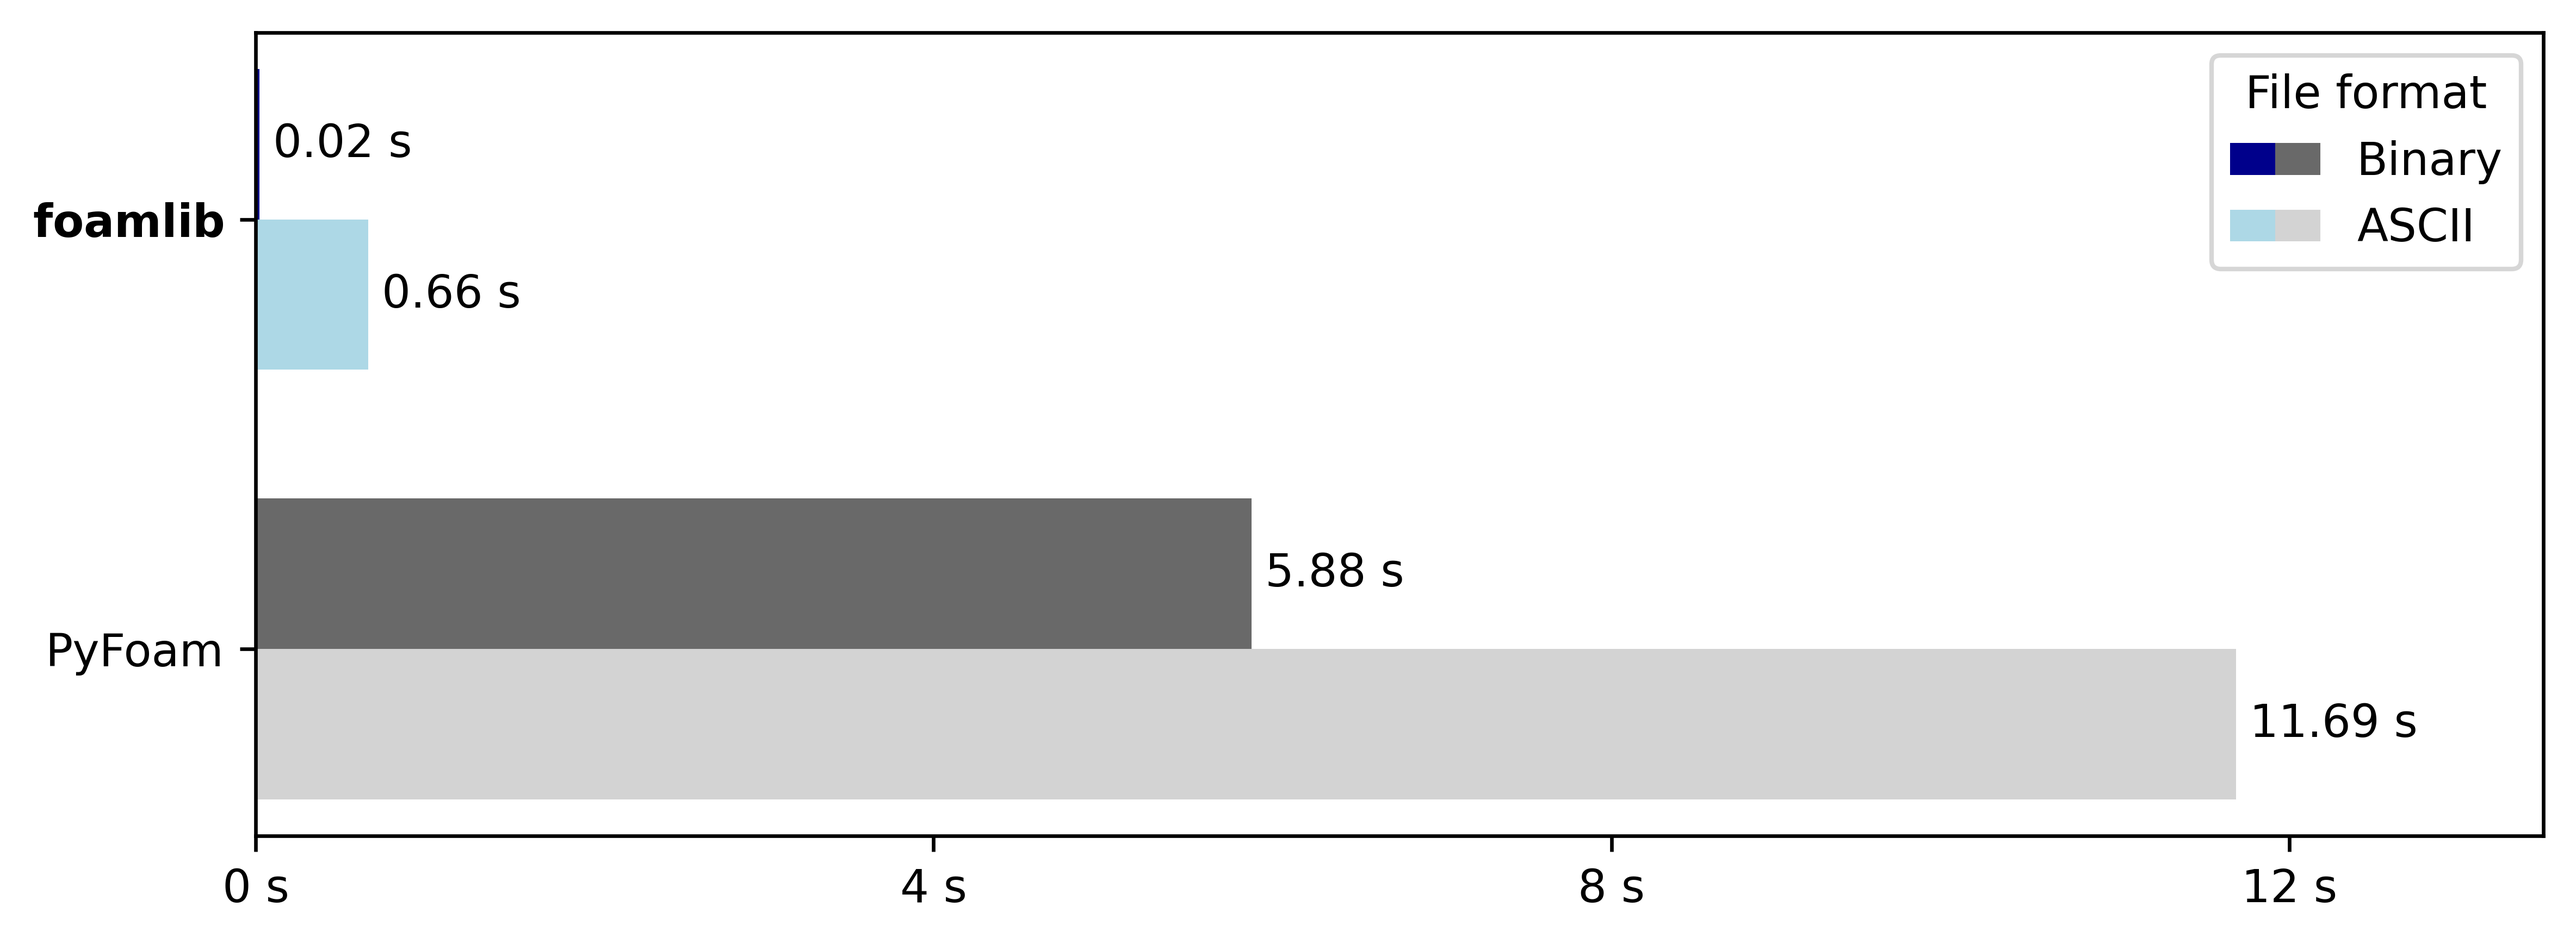
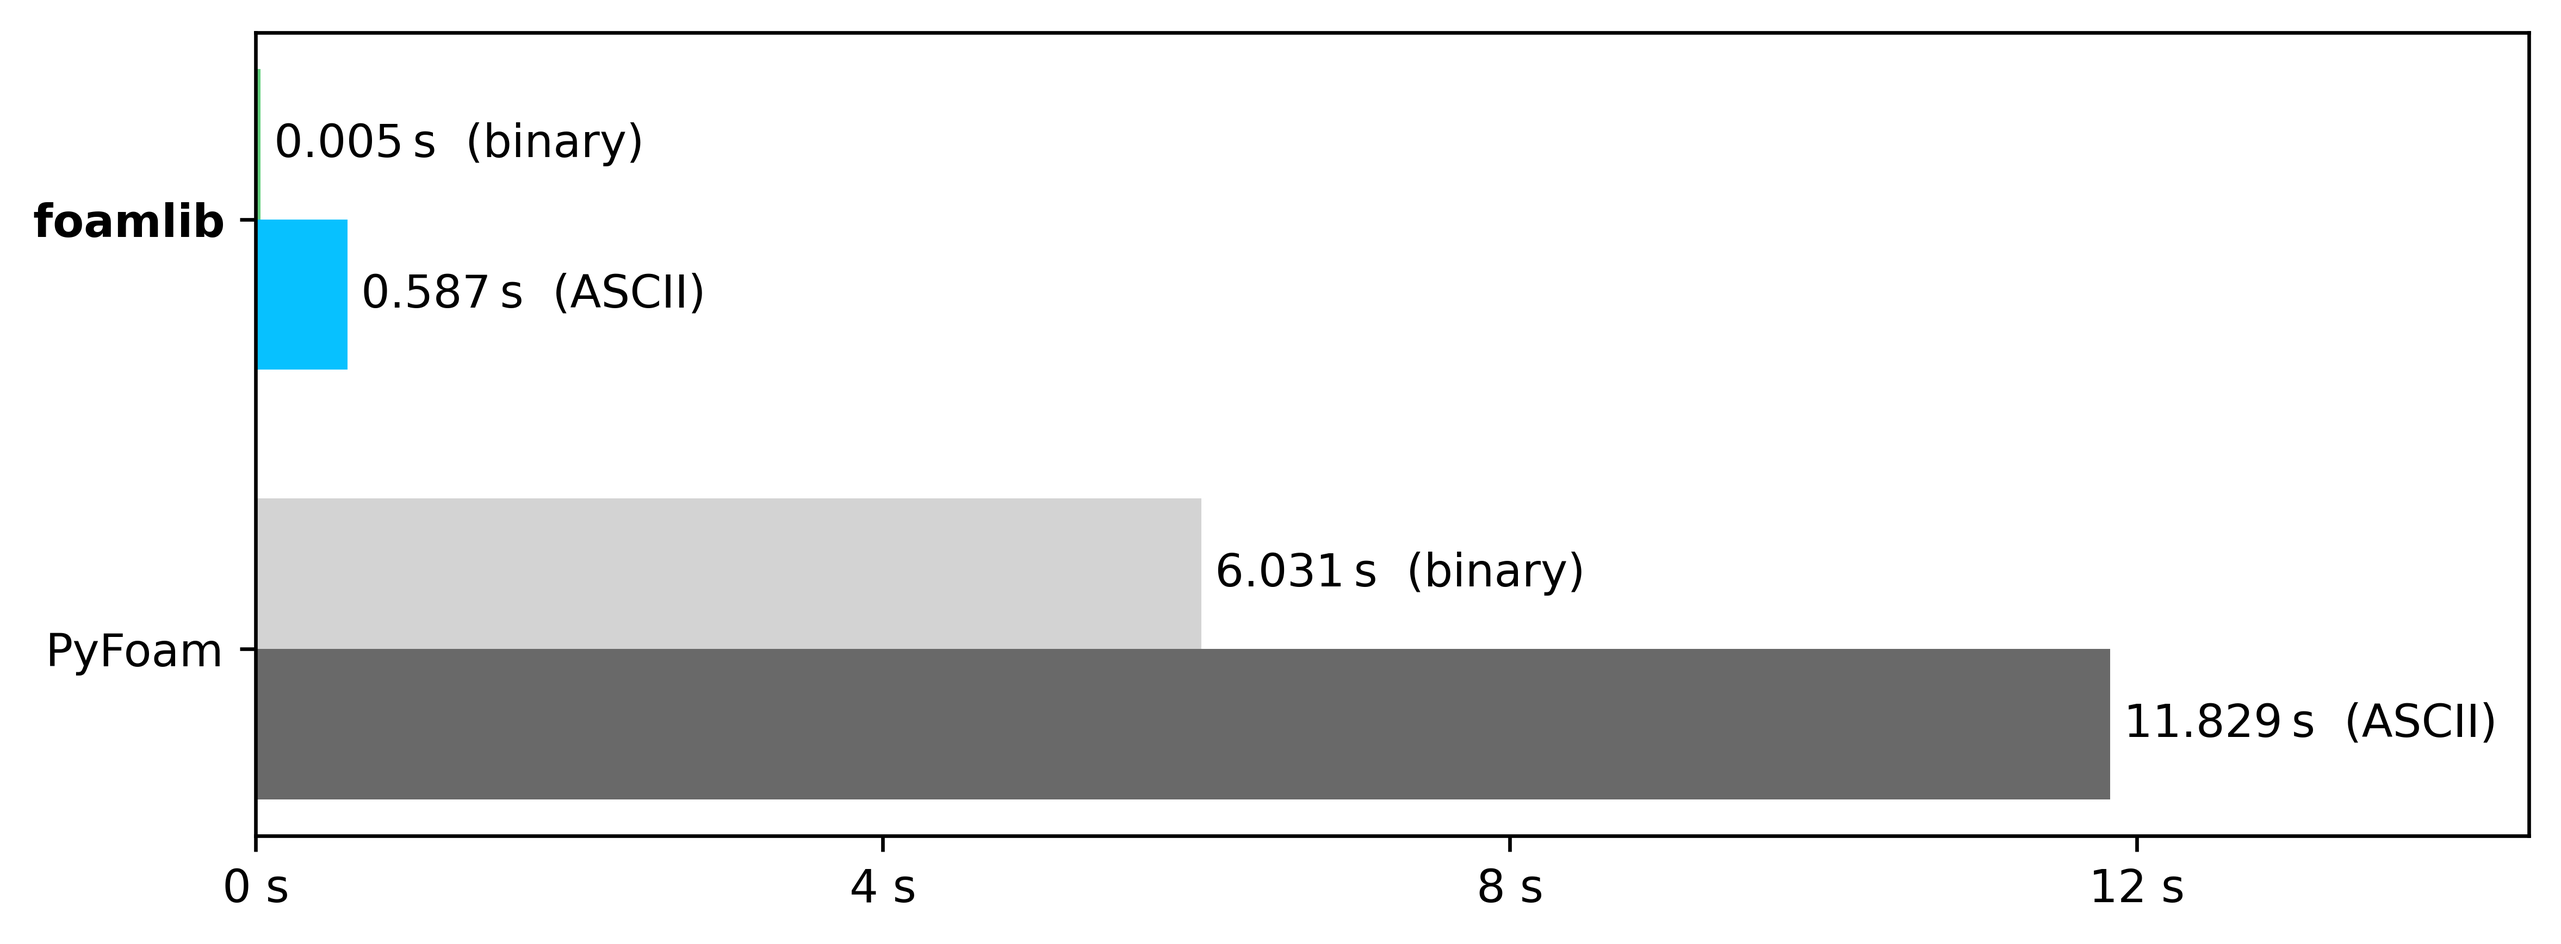
Update benchmark

diff --git a/README.md b/README.md
@@ -276,4 +276,4 @@ If you use **foamlib** in your research, please remember to cite our paper:
 
 ## 👟 Footnotes
 
-<a id="benchmark">[1]</a> foamlib 1.4.4 vs. PyFoam 2023.7 (Python 3.11.13) on an M3 MacBook Air. [Benchmark script](https://github.com/gerlero/foamlib/blob/main/benchmark/benchmark.py).
+<a id="benchmark">[1]</a> foamlib 1.5.0 vs. PyFoam 2023.7 (Python 3.11.13) on an M3 MacBook Air. [Benchmark script](https://github.com/gerlero/foamlib/blob/main/benchmark/benchmark.py).
